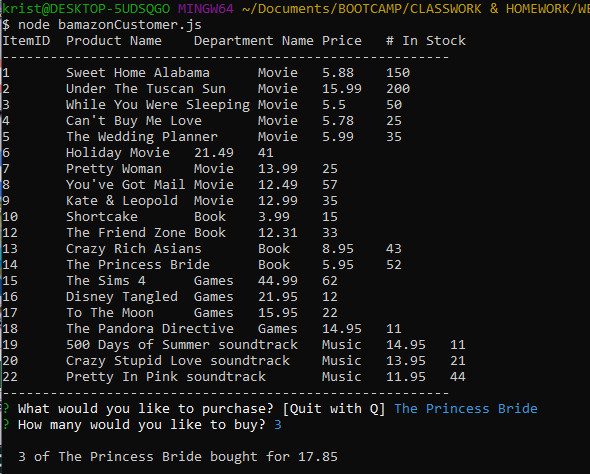
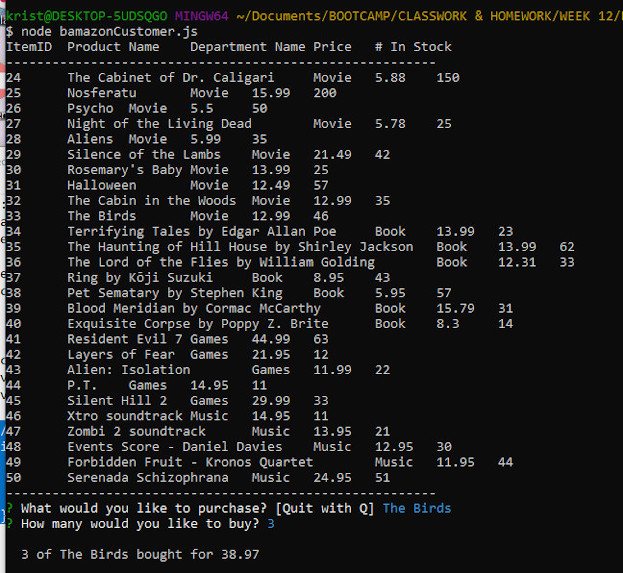
Completed ReadMe file with screenshots.

diff --git a/README.md b/README.md
@@ -8,49 +8,30 @@ Created an Amazon-like storefront with MySQL, Javascript and Node.js. The app ta
 
 
 ## How To Use
-+ `concert-this artist-name` - finds upcoming event for artist (if one exists)
-+ `spotify-this-song song-name` - finds artist & album info for a song, as well as Spotify links
-+ `movie-this movie-name` - finds plot summary, main actors, languages, ratings & location for a movie
-+ `do-what-it-says` - pulls spotify data for a song in a random text file (boy band song chosen by instructor!)
+On startup, bAmazon displays all available products, with price and available inventory.
+It will ask what product you would like to purchase. Type in product name.
+It will then ask what quantity. Type in quantity. If you ask for more than are available, bAmazon will let you know.
+If there are enough in inventory, your purchase will be completed.
 
 
 ### Technologies Used
 * JavaScript
   * Node.js
-    * Moment.js
-    * Node-Spotify-API
-    * Axios
-    * DotEnv
+    * Inquirer Packet
 
-* APIs
-  * Spotify
-  * OMDB
-  * Bands In Town
-
-
-### Summary
-+ First time creating a git-ignore file.
-+ First time creating Json packages. 
-+ First time hiding API keys in a separate file. 
-
-Used multiple Node.js modules to pull data from 3 different APIs. 
-Set defaults for concert-this (Garbage), spotify-this-song (Ace of Base 'The Sign') and movie-this (Casablanca) if no user input.
+* MySQL
 
 
 ### Screenshots Of The App In Action
-**_concert-this_** command
-![concert-this](concert-this.png)
+**_Purchase_** On startup, with a purchase and a total summary.
+![Purchase](bamazon1.jpg)
 
-**_spotify-this-song_** command
-![spotify-this-song](spotify-this-song.png)
+**_Inventory Update_** After a successful purchase, the product's inventory is updated and the store displays all items again.
+![Inventory Update](bamazon2.jpg)
 
-**_movie-this_** command
-![movie-this](movie-this.png)
-
-**_do-what-it-says_** command
-![do-what-it-says](do-what-it-says.png)
+**_Insufficient Quantity_** If customer tries to order more than available quantity, bAmazon notifies customer and returns them to the order prompt.
+![Insufficient Quantity](bamazon3.jpg)
 
 
 ### Future Enhancements
-This could be served on a website, giving more user accessibility and functionality.
-Could change parameters to produce more than one response for a movie or song name.
+This could be served on a website, giving more user accessibility and functionality. As-is, with the manager-level controls not detailed in this Read Me, this could be the framework for a small storefront.
